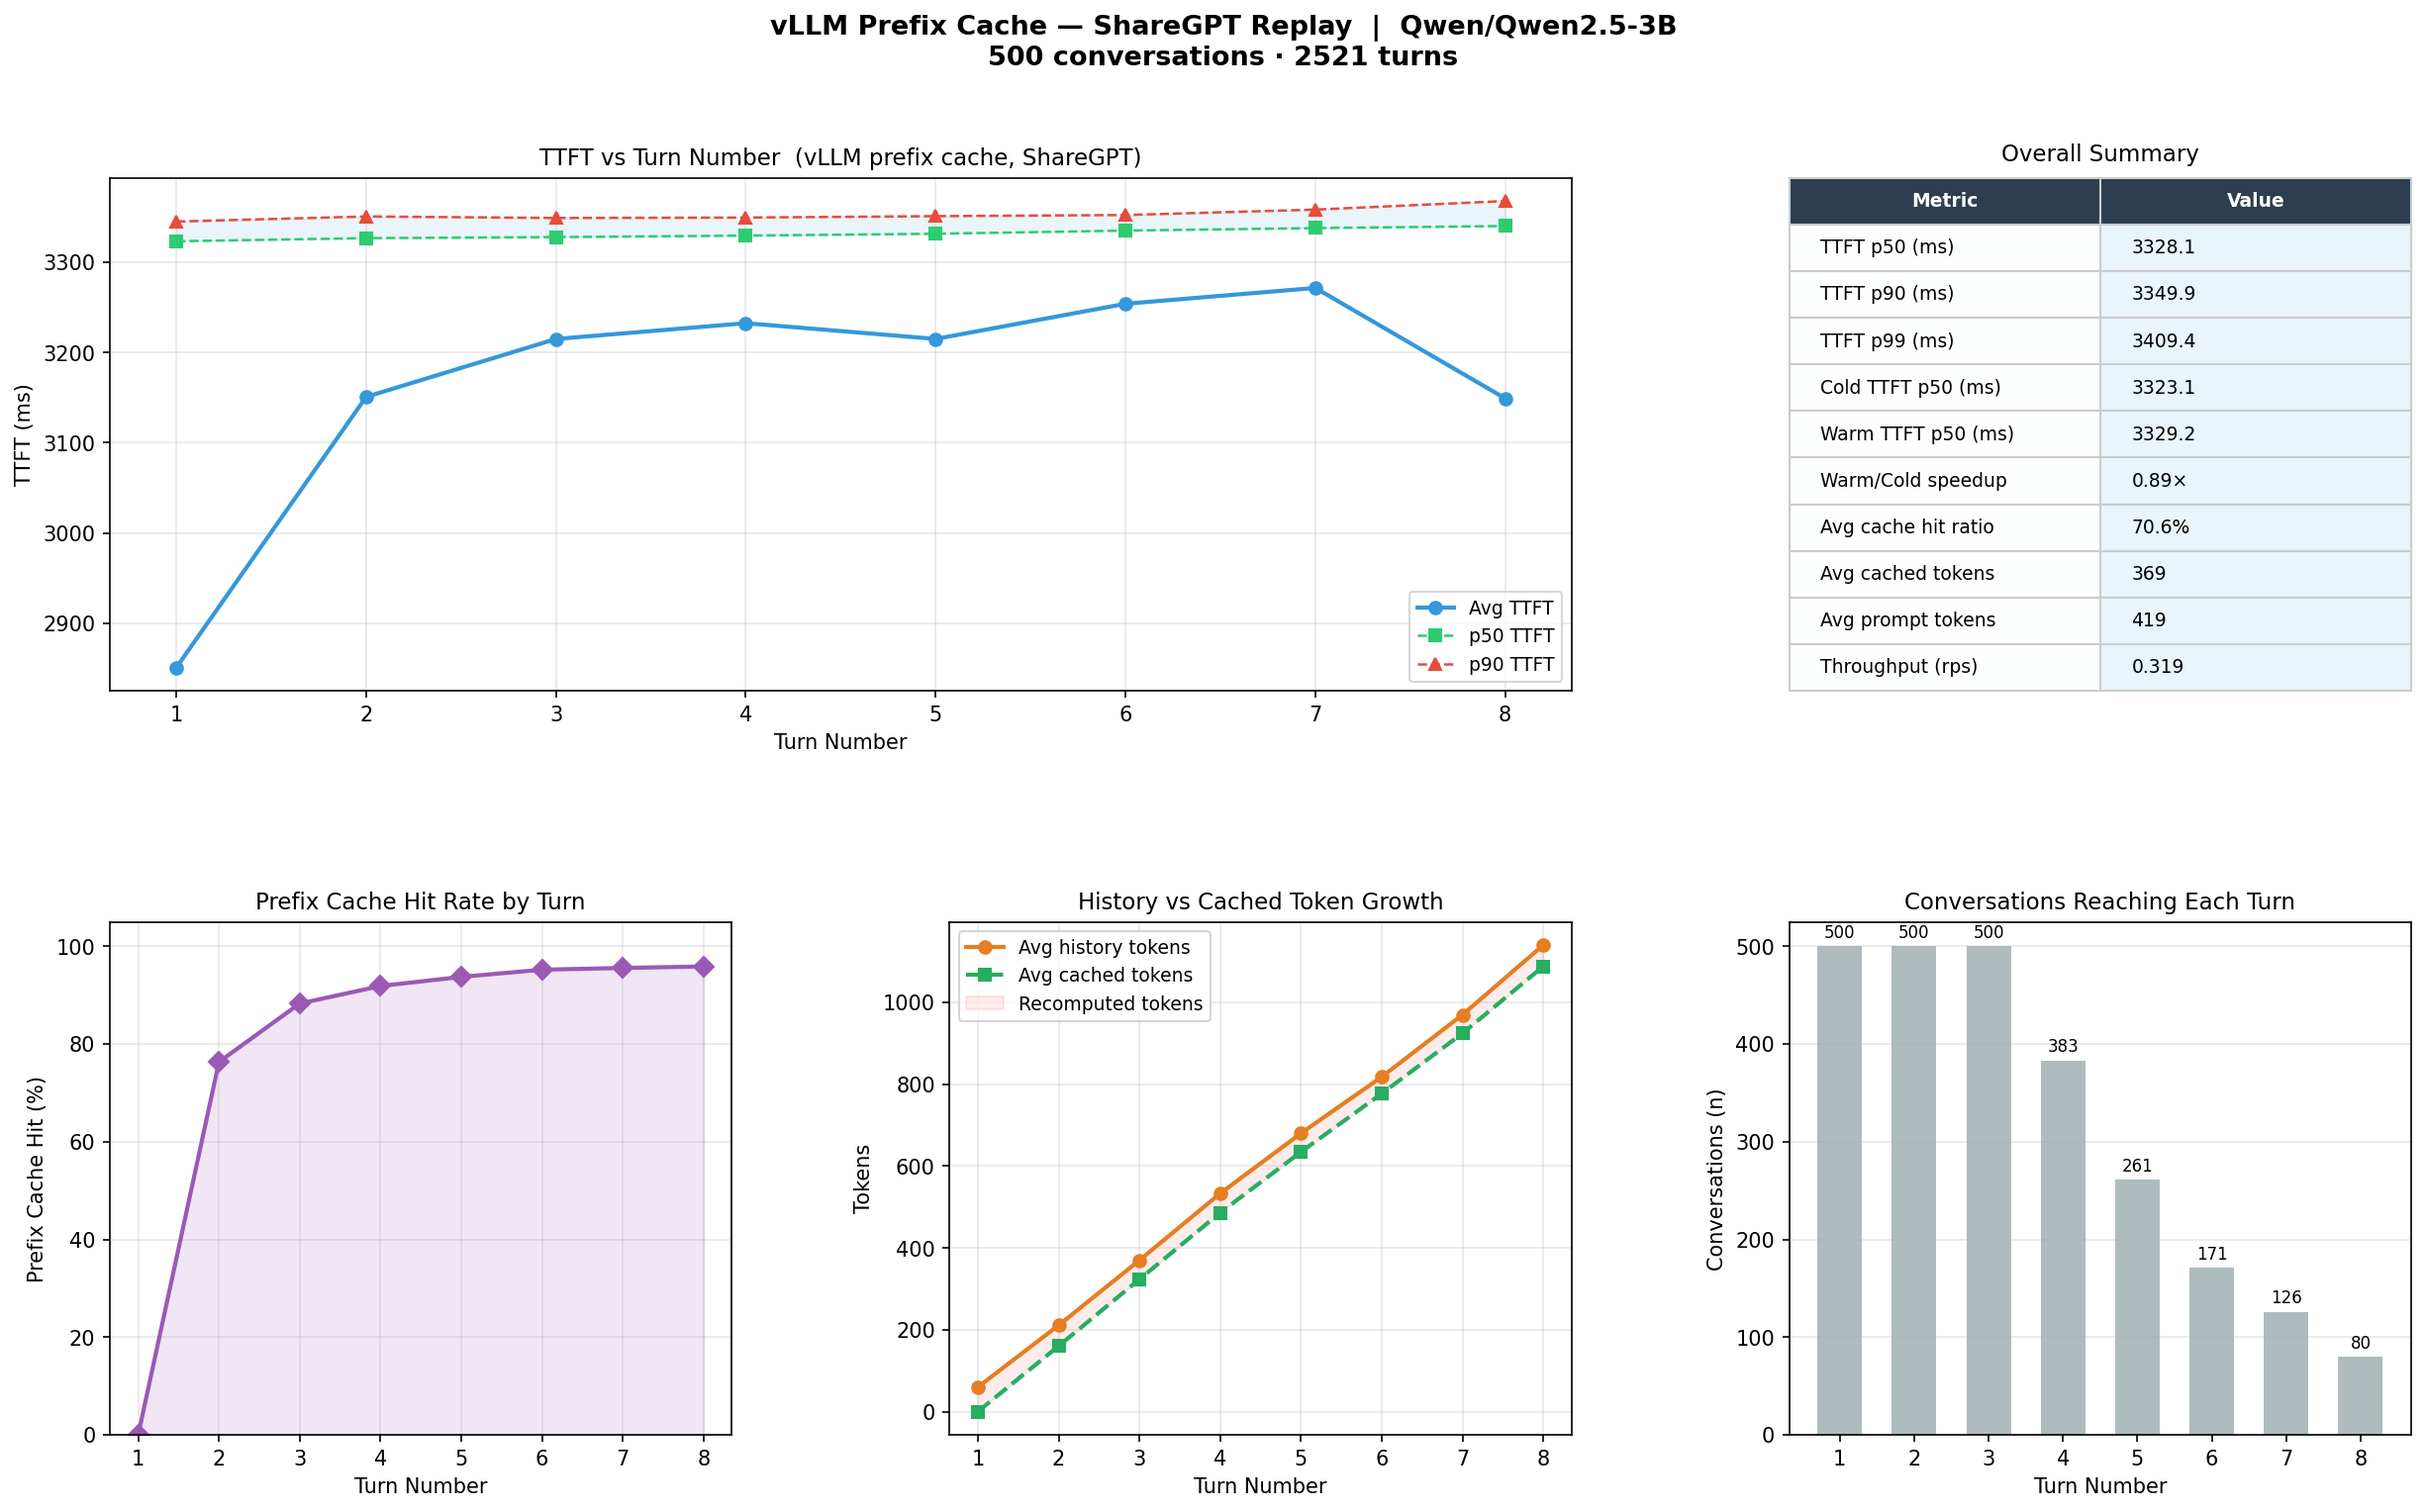
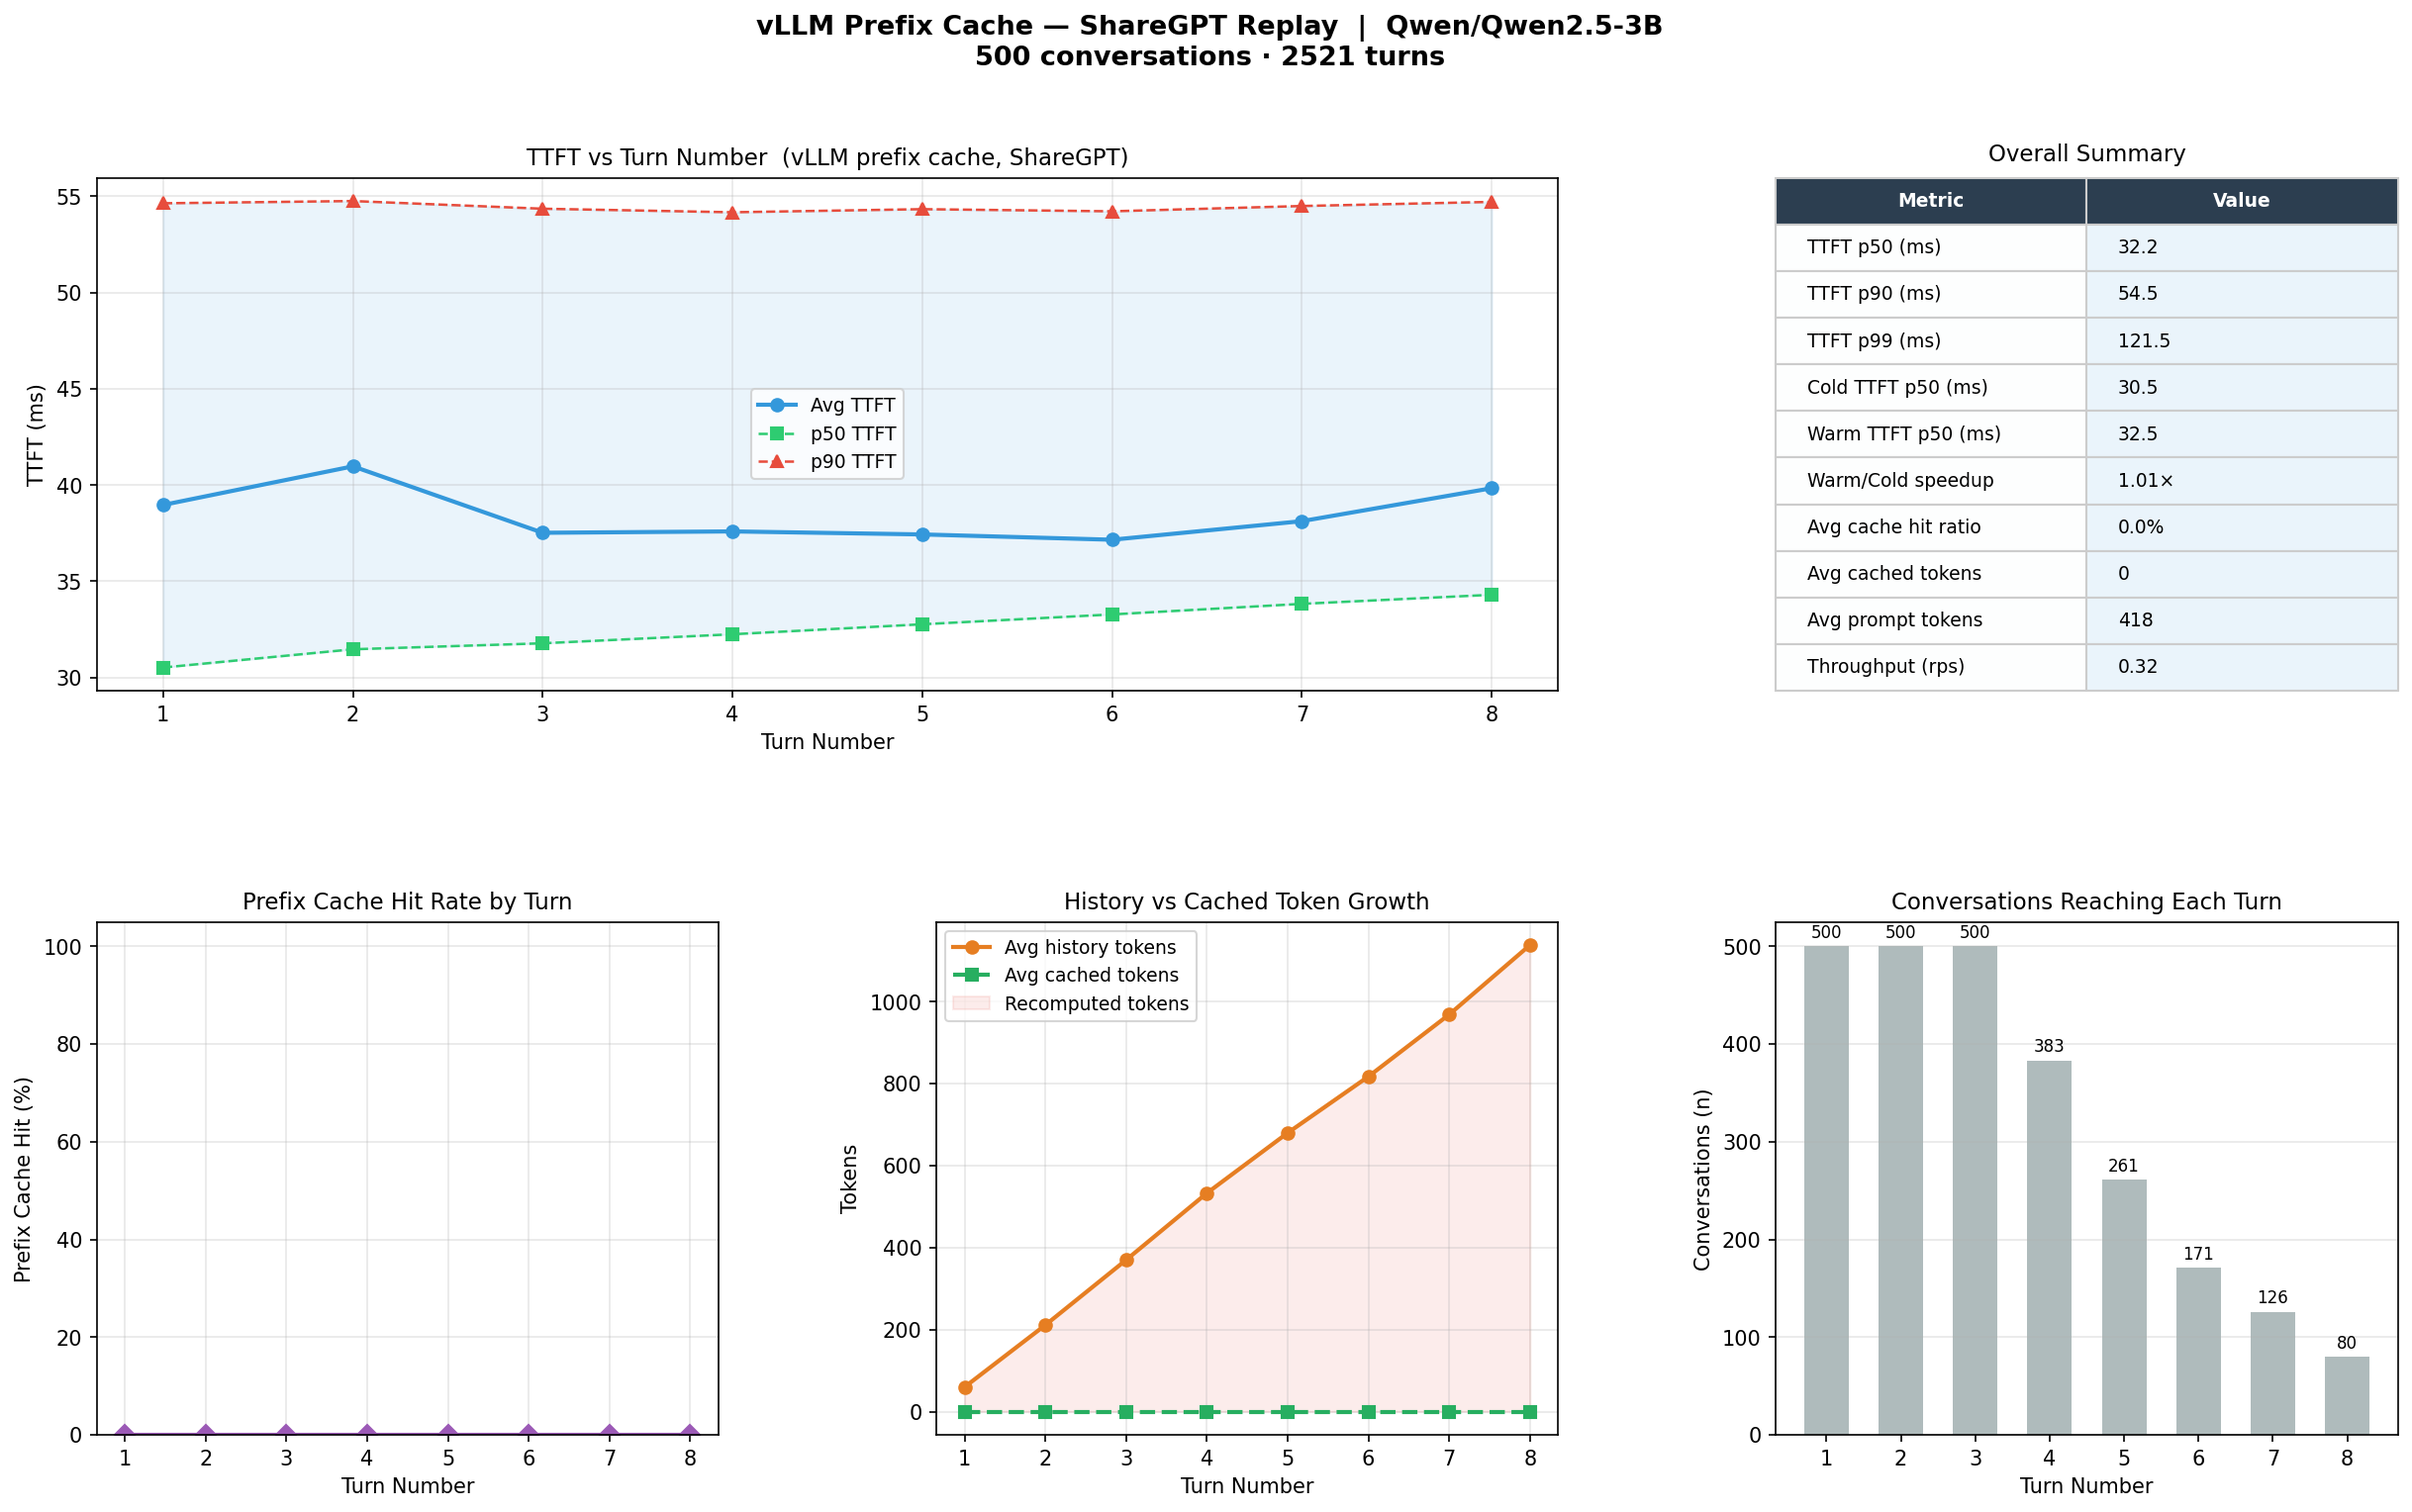
vllm_cache_results

diff --git a/benchmarks_and_experiments/vllm_sharegpt_replay/run_sharegpt_vllm.py b/benchmarks_and_experiments/vllm_sharegpt_replay/run_sharegpt_vllm.py
@@ -221,6 +221,42 @@ class VLLMRunner:
         # Persistent event loop — reused for every run_turn() call so the
         # AsyncLLMEngine's internal tasks stay alive between requests.
         self._loop = asyncio.new_event_loop()
+
+        # Discover the correct cached-token field name for this vLLM version.
+        # We probe RequestMetrics at import time so we fail fast and loudly.
+        self._cached_tokens_attr: Optional[str] = None
+        try:
+            from vllm.engine.metrics_types import RequestMetrics as _RM
+        except ImportError:
+            try:
+                from vllm.outputs import RequestOutput as _RO
+                # Fall back: inspect a dummy metrics object later
+                _RM = None
+            except ImportError:
+                _RM = None
+
+        if _RM is not None:
+            for attr in ("num_cached_tokens", "num_prefix_cache_tokens",
+                         "cache_hit_tokens", "num_computed_tokens"):
+                if hasattr(_RM, attr) or (
+                    hasattr(_RM, "__dataclass_fields__") and
+                    attr in _RM.__dataclass_fields__
+                ):
+                    self._cached_tokens_attr = attr
+                    log.info(f"  Cached-token field: RequestMetrics.{attr}")
+                    break
+            if self._cached_tokens_attr is None:
+                import dataclasses
+                try:
+                    all_fields = [f.name for f in dataclasses.fields(_RM)]
+                    log.warning(
+                        f"  No known cached-token field found on RequestMetrics. "
+                        f"Available fields: {all_fields}. "
+                        f"cache_hit_ratio will be 0 — update _CACHED_TOKEN_ATTRS."
+                    )
+                except Exception:
+                    pass
+
         log.info("  Async engine ready.")
 
     @property
@@ -272,15 +308,29 @@ class VLLMRunner:
         else:
             prompt_tokens = self.count_tokens(prompt)
 
-        # Cached tokens — available on RequestMetrics in vLLM v0.4+
+        # Cached tokens — field name varies by vLLM version
         cached_tokens = 0
         if final_output is not None and final_output.metrics is not None:
             m = final_output.metrics
-            for attr in ("num_cached_tokens", "num_prefix_cache_tokens", "cache_hit_tokens"):
-                val = getattr(m, attr, None)
-                if val is not None:
-                    cached_tokens = int(val)
-                    break
+            if self._cached_tokens_attr is not None:
+                cached_tokens = int(getattr(m, self._cached_tokens_attr, 0) or 0)
+            else:
+                # Runtime fallback: try all known names, log what's available once
+                for attr in ("num_cached_tokens", "num_prefix_cache_tokens",
+                             "cache_hit_tokens", "num_computed_tokens"):
+                    val = getattr(m, attr, None)
+                    if val is not None:
+                        cached_tokens = int(val)
+                        self._cached_tokens_attr = attr
+                        log.info(f"  Discovered cached-token field at runtime: {attr}")
+                        break
+                else:
+                    if self._request_counter == 1:
+                        log.warning(
+                            f"  cache_hit_ratio will be 0 — RequestMetrics has no "
+                            f"known cached-token field. Fields present: "
+                            f"{[a for a in dir(m) if not a.startswith('_')]}"
+                        )
 
         cache_hit_ratio = cached_tokens / max(prompt_tokens, 1)
 
